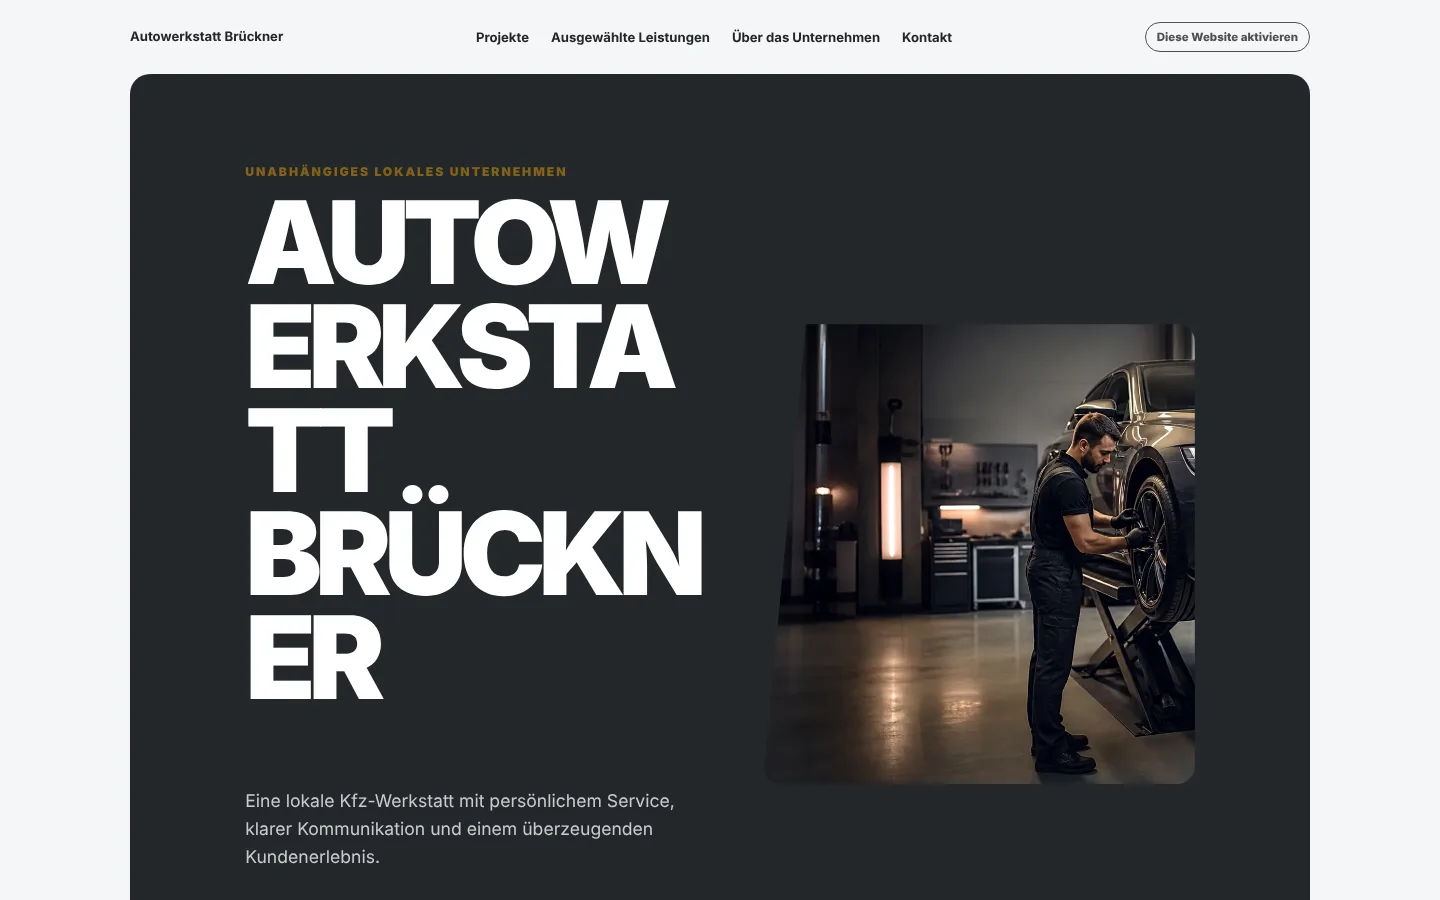
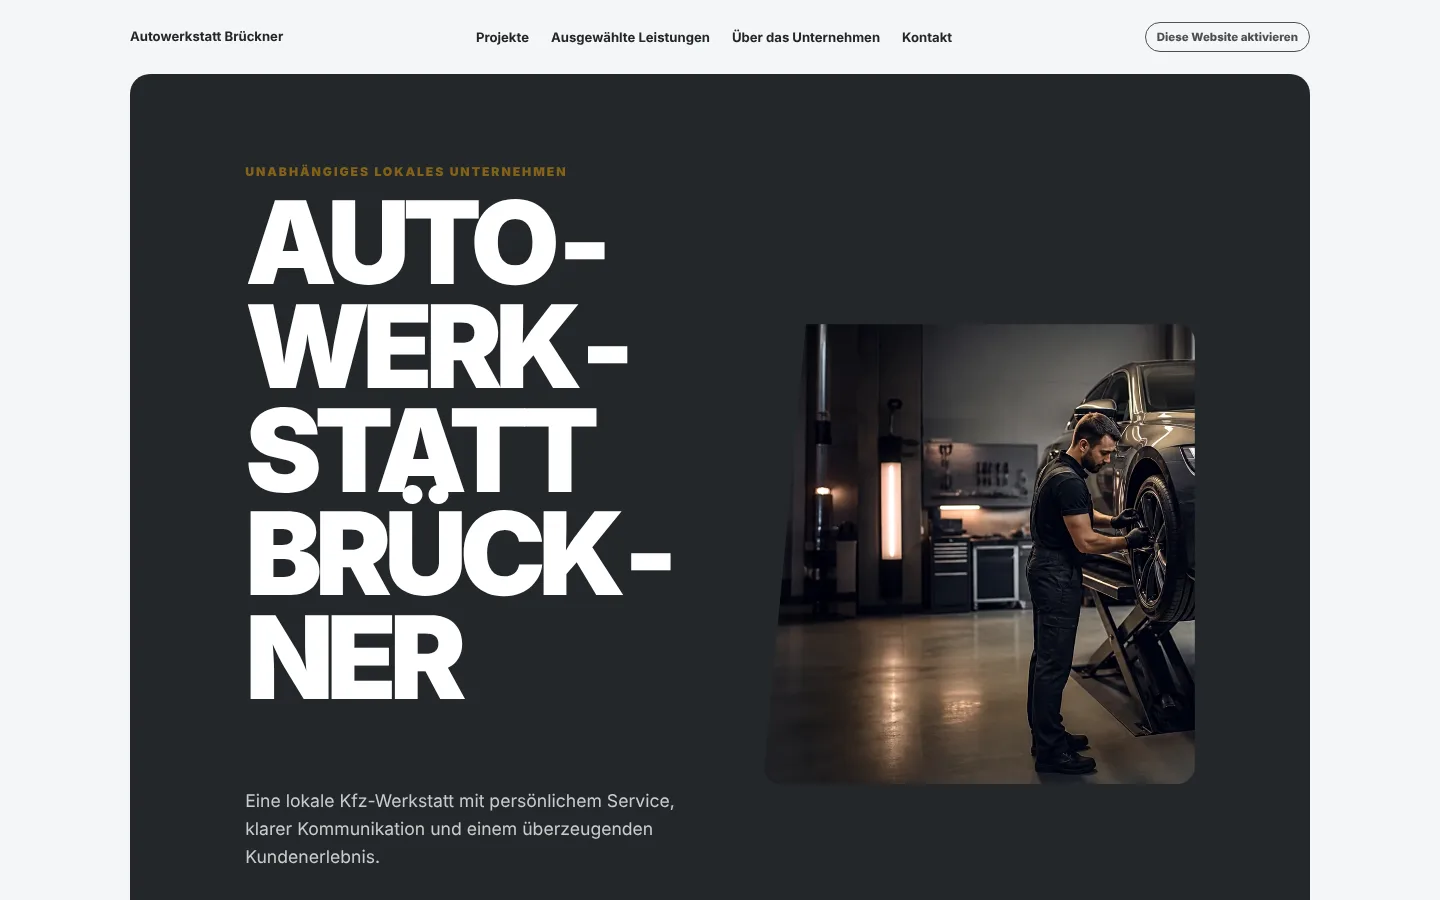
fix(sites): readable hero names, neutral German starter copy, visible CTA on dark palettes
- Hero headline hyphenates long compound names by page language instead of
  breaking at arbitrary letters.
- Starter descriptions in DE/FR/ES/IT no longer depend on the grammatical
  gender of the category label (fixes "Eine lokale Friseursalon").
- Primary call to action falls back to a contrast-safe colour when the
  palette primary nearly matches the page background.
- Screenshots and verification record updated.

Changed region(s): [[0.1562, 0.2178, 0.4688, 0.56], [0.1875, 0.6844, 0.3438, 0.7778], [0.4062, 0.56, 0.5, 0.6844]]

diff --git a/apps/web/components/design-archetypes.tsx b/apps/web/components/design-archetypes.tsx
@@ -28,6 +28,30 @@ type Copy = ReturnType<typeof resolveSiteCopy>;
 
 /** Per-site icon assignment (P5-001): semantic mapping with uniqueness and a
  * neutral fallback family; null when the document does not opt into icons. */
+
+/* The primary call to action must stay visible on every palette: dark
+   palettes can carry a primary that is nearly the page colour. */
+function luminance(hex: string) {
+  const value = /^#([0-9a-f]{6})$/i.exec(hex.trim())?.[1];
+  if (!value) return null;
+  const [r, g, b] = [0, 2, 4].map((offset) => {
+    const channel = parseInt(value.slice(offset, offset + 2), 16) / 255;
+    return channel <= 0.03928 ? channel / 12.92 : ((channel + 0.055) / 1.055) ** 2.4;
+  });
+  return 0.2126 * r + 0.7152 * g + 0.0722 * b;
+}
+function contrast(a: string, b: string) {
+  const la = luminance(a), lb = luminance(b);
+  if (la === null || lb === null) return 21;
+  return (Math.max(la, lb) + 0.05) / (Math.min(la, lb) + 0.05);
+}
+export function ctaColors(theme: SiteDocument["theme"]): Record<string, string> {
+  if (contrast(theme.primary, theme.background) >= 3) return {};
+  const fill = contrast(theme.accent, theme.background) >= 3 ? theme.accent : theme.text;
+  const ink = contrast(fill, "#ffffff") >= contrast(fill, theme.background) ? "#ffffff" : theme.background;
+  return { "--site-cta": fill, "--site-cta-ink": ink };
+}
+
 function serviceIcons(site: SiteDocument, design: SiteDesign): ReturnType<typeof mapServiceIcon>[] | null {
   if (!design.iconStyle) return null;
   const taken = new Set<string>();
@@ -309,6 +333,7 @@ function IndustrialBoldSite({ site, design, privacyHref }: { site: SiteDocument;
     "--site-page": site.theme.background,
     "--site-surface": site.theme.surface,
     "--site-ink": site.theme.text,
+    ...ctaColors(site.theme),
   } as CSSProperties;
   const section = (id: SiteSectionId): ReactNode => {
     switch (id) {
@@ -445,6 +470,7 @@ function EditorialPremiumSite({ site, design, privacyHref }: { site: SiteDocumen
     "--site-page": site.theme.background,
     "--site-surface": site.theme.surface,
     "--site-ink": site.theme.text,
+    ...ctaColors(site.theme),
   } as CSSProperties;
   const testimonials = design.sectionOrder.includes("testimonials") && trustLines(site).length ? (
     <section className="ep-testimonials" id="testimonials">
@@ -614,6 +640,7 @@ function LocalServiceSite({ site, design, privacyHref }: { site: SiteDocument; d
     "--site-page": site.theme.background,
     "--site-surface": site.theme.surface,
     "--site-ink": site.theme.text,
+    ...ctaColors(site.theme),
   } as CSSProperties;
   const section = (id: SiteSectionId): ReactNode => {
     switch (id) {

diff --git a/apps/web/lib/trial-starter-content.ts b/apps/web/lib/trial-starter-content.ts
@@ -105,16 +105,19 @@ const healthDescriptions: Partial<Record<TrialCategory, Record<Exclude<Supported
   },
 };
 
+const capitalize = (value: string) => value.charAt(0).toUpperCase() + value.slice(1);
+
 function localizedCategoryStarter(category: string, locale: Exclude<SupportedLocale, "sq">, templateKey?: string): RawStarterContent {
   const kind = categoryKind(category, templateKey);
   if (!kind) return generic[locale];
   const label = labels[locale][kind];
   const description: Record<Exclude<SupportedLocale, "sq">, string> = {
     en: `A local ${label} focused on thoughtful service, clear communication and a confident customer experience.`,
-    de: `Eine lokale ${label} mit persönlichem Service, klarer Kommunikation und einem überzeugenden Kundenerlebnis.`,
-    fr: `Un ${label} local attentif au service, à une communication claire et à une expérience client rassurante.`,
-    es: `Un ${label} local centrado en un servicio atento, una comunicación clara y una experiencia de cliente segura.`,
-    it: `Un’${label} locale attenta al servizio, alla comunicazione chiara e a un’esperienza cliente sicura.`,
+    // Gender-neutral phrasing: the label's grammatical gender varies by category.
+    de: `${label} vor Ort: persönlicher Service, klare Kommunikation und ein überzeugendes Kundenerlebnis.`,
+    fr: `${capitalize(label)} de proximité : service attentif, communication claire et expérience client rassurante.`,
+    es: `${capitalize(label)} de confianza en su zona: servicio atento, comunicación clara y una experiencia de cliente segura.`,
+    it: `${capitalize(label)} di zona: servizio attento, comunicazione chiara e un’esperienza cliente sicura.`,
   };
   const services: Partial<Record<TrialCategory, Record<Exclude<SupportedLocale, "sq">, string[]>>> = {
     "auto-repair": {

diff --git a/apps/web/components/design-archetypes-cta.test.ts b/apps/web/components/design-archetypes-cta.test.ts
@@ -1,0 +1,18 @@
+import { describe, expect, it } from "vitest";
+import { ctaColors } from "./design-archetypes";
+
+describe("call-to-action colours", () => {
+  it("keeps the primary colour when it stands out from the page", () => {
+    expect(ctaColors({ primary: "#26282c", accent: "#8a6d3b", background: "#f7f7f8", surface: "#ffffff", text: "#26282c" })).toEqual({});
+  });
+
+  it("switches to the accent with readable ink when the primary disappears on a dark page", () => {
+    expect(ctaColors({ primary: "#212327", accent: "#b48d54", background: "#1f2124", surface: "#2a2d31", text: "#f2f2f3" }))
+      .toEqual({ "--site-cta": "#b48d54", "--site-cta-ink": "#1f2124" });
+  });
+
+  it("falls back to the text colour when the accent is also too close to the page", () => {
+    expect(ctaColors({ primary: "#212327", accent: "#2a2d31", background: "#1f2124", surface: "#2a2d31", text: "#f2f2f3" }))
+      .toEqual({ "--site-cta": "#f2f2f3", "--site-cta-ink": "#1f2124" });
+  });
+});

diff --git a/apps/web/app/styles.css b/apps/web/app/styles.css
@@ -2368,8 +2368,8 @@ body[data-owner-theme="light"] .search-result-links a { background: rgba(29,29,3
   margin-top: 14px;
   padding: 13px 19px;
   border-radius: var(--ds-radius-pill);
-  background: var(--site-primary);
-  color: #fff;
+  background: var(--site-cta, var(--site-primary));
+  color: var(--site-cta-ink, #fff);
   font:
     800 var(--ds-type-cta) Inter,
     sans-serif;
@@ -5934,7 +5934,10 @@ body[data-owner-theme="light"] .search-result-links a { background: rgba(29,29,3
 
 /* Hero prominence policy: minimum visual area per promised prominence. */
 .generated-site[data-hero-prominence] h1 {
-  overflow-wrap: anywhere;
+  /* Long compound names (e.g. German) hyphenate at syllables via the page
+     language; break-word only splits a word that still cannot fit. */
+  overflow-wrap: break-word;
+  hyphens: auto;
   text-wrap: balance;
 }
 .generated-site[data-hero-prominence="immersive"] .ib-hero,

diff --git a/EVIDENCE.md b/EVIDENCE.md
@@ -19,7 +19,7 @@ Linux-Container, Node 22, PostgreSQL 16, gegen genau diesen Schnappschuss.
 |---|---|
 | TypeScript (`npm run typecheck`, alle Workspaces) | bestanden |
 | ESLint | bestanden, 0 Fehler, 2 Warnungen |
-| Unit- und Integrationstests (`npm test`, mit Datenbank) | **1.196 bestanden**, 2 übersprungen |
+| Unit- und Integrationstests (`npm test`, mit Datenbank) | **1.199 bestanden**, 2 übersprungen |
 | Durchgesetzte Row-Level Security (`npm run test:rls`, Wegwerf-Datenbank, eingeschränkte Rollen) | **172 bestanden** in 14 Dateien |
 | Upgrade-Erhalt 049 → 052 (`npm run test:rls-upgrade`) | bestanden |
 | Doku-Links (`npm run check:docs`) | bestanden |
@@ -34,7 +34,8 @@ Dieselben Schritte laufen in GitHub Actions (`.github/workflows/ci.yml`) auf `ub
 | Prüfung | Beobachtung |
 |---|---|
 | Durchgang im Browser (Playwright/Chromium, lokaler Produktionsbuild, 27.10.2026) | Drei fiktive Betriebe über den Assistenten angelegt (Haarstudio Elena, Autowerkstatt Brückner, Café Morgenrot): jeweils Website in wenigen Sekunden erzeugt, privater Vorschau-Link geöffnet, Business-Admin per Passwort betreten, Editor geöffnet. Screenshots in `docs/assets`, jedes Bild einzeln angesehen. |
-| Gefundene Anzeigefehler (nicht behoben, im privaten Repository zu klären) | Lange deutsche Firmennamen werden in der Industrie-Vorlage mitten im Wort umgebrochen („AUTOW / ERKSTA / TT“). Deutscher Standardtext „Eine lokale Friseursalon“ ist grammatisch falsch. Business-Admin bleibt Englisch, auch wenn die Website Deutsch ist. Für „Café“ gibt es keine eigene Vorlage; die neutrale Vorlage zeigt keinen Bildbereich und einen kontrastarmen Kontaktknopf. |
+| Gefundene Anzeigefehler (27.10.2026, behoben im zweiten Pull Request) | Lange deutsche Firmennamen wurden in der Hero-Überschrift mitten im Wort umgebrochen („AUTOW / ERKSTA / TT“), jetzt Silbentrennung nach Seitensprache („AUTO- / WERK- / STATT“). Der deutsche Standardtext „Eine lokale Friseursalon“ war grammatisch falsch; die Texte in DE/FR/ES/IT sind jetzt unabhängig vom Genus der Branche. Auf dunklen Paletten war der Kontaktknopf fast unsichtbar; der Knopf wählt jetzt automatisch eine Farbe mit ausreichendem Kontrast (3 neue Tests). Alle drei im Browser nachgeprüft, Screenshots ersetzt. |
+| Bewusst so, kein Fehler | Der Business-Admin folgt der Oberflächensprache des Besuchers (Cookie bzw. Browsersprache, EN oder DE), nicht der Sprache der erzeugten Website. Kleiner Rest: Der Knopf „Mit AI verbessern“ folgt der Website-Sprache und steht deshalb in einem englischen Admin auf Deutsch. Für „Café“ gibt es keine eigene Branchenvorlage; es wird die neutrale Vorlage ohne Bild verwendet. |
 | Schnellstart | Zwei Lücken in `docs/QUICK_START.md` gefunden und ergänzt: Die drei Rollen-URLs sind Pflicht, und `PUBLIC_APP_URL` muss zur Adresse im Browser passen, sonst lehnt der Same-Origin-Schutz den Login ab. |
 
 ## Was nicht geprüft ist

diff --git a/README.md b/README.md
@@ -13,7 +13,7 @@
 | Status | Umfang |
 |---|---|
 | **Umgesetzt und in Produktion** | Self-Service-Demo in drei Schritten, Website-Engine mit Branchenvorlagen und Themes, Business-Admin (Texte, Leistungen und Preise, Fotos und Videos, Öffnungszeiten, Kontakt, Termine), private Vorschau-Links, Impressumspflicht vor Veröffentlichung, Plattform-Admin mit Passwort plus TOTP und festen Rollen, eigene Domains. Die Plattform läuft seit Oktober 2026 auf einem eigenen Server in Frankfurt und hostet dort die ersten eigenen und befreundeten Websites. |
-| **Verifiziert** | 1.368 automatisierte Tests lokal grün (Unit, Integration gegen PostgreSQL 16, durchgesetzte Row-Level Security mit eingeschränkten Rollen), Typecheck, Lint, Produktionsbuild, gitleaks ohne Funde. Details im [Prüfprotokoll](EVIDENCE.md). |
+| **Verifiziert** | 1.371 automatisierte Tests lokal grün (Unit, Integration gegen PostgreSQL 16, durchgesetzte Row-Level Security mit eingeschränkten Rollen), Typecheck, Lint, Produktionsbuild, gitleaks ohne Funde. Details im [Prüfprotokoll](EVIDENCE.md). |
 | **Umgesetzt, hier nicht aktiv** | Stripe-Checkout mit Kulanzzeit und Read-only-Phase, E-Mail über Resend, Google-Places-Suche nach Betrieben, KI-Import einer bestehenden Website und KI-Textverbesserung (OpenAI), Medienspeicher (Vercel Blob oder S3/R2), News-CMS für Informationsseiten. Der Code ist getestet; ohne Schlüssel bleiben diese Funktionen aus. |
 | **Offen** | Kommerzieller Verkauf ist nicht freigegeben: Die Rechtstexte (AGB, Datenschutz, AVV) warten auf anwaltliche Prüfung. Safari/WebKit-Abnahme auf echten Geräten ist unvollständig. Siehe [Projektstand](docs/PROJEKTSTAND.md). |
 
@@ -23,7 +23,7 @@ Alle Bilder stammen aus einem lokalen Produktionsbuild mit erfundenen Betrieben.
 
 | 1. Name und Branche eingeben | 2. Fertige Website (Desktop) |
 |---|---|
-| ![Assistent zum Anlegen einer Website](docs/assets/create-wizard.webp) | ![Generierte Website für den fiktiven Friseursalon Haarstudio Elena](docs/assets/demo-site-salon.webp) |
+| ![Assistent zum Anlegen einer Website](docs/assets/create-wizard.webp) | ![Generierte Website für den fiktiven Friseursalon Haarstudio Mira](docs/assets/demo-site-salon.webp) |
 
 | 3. Selbst bearbeiten | Mobil | Andere Branche |
 |---|---|---|

diff --git a/README.en.md b/README.en.md
@@ -13,7 +13,7 @@
 | Status | Scope |
 |---|---|
 | **Implemented and in production** | Three-step self-service demo, website engine with category templates and themes, business admin (texts, services and prices, photos and videos, opening hours, contact, appointments), private preview links, legal-identity gate before publishing, platform admin with password plus TOTP and fixed roles, custom domains. The platform has run on its own server in Frankfurt since October 2026 and hosts the first own and friendly websites there. |
-| **Verified** | 1,368 automated tests passing locally (unit, integration against PostgreSQL 16, enforced row-level security with restricted roles), typecheck, lint, production build, gitleaks with no findings. Details in the [verification record](EVIDENCE.md). |
+| **Verified** | 1,371 automated tests passing locally (unit, integration against PostgreSQL 16, enforced row-level security with restricted roles), typecheck, lint, production build, gitleaks with no findings. Details in the [verification record](EVIDENCE.md). |
 | **Implemented, not active here** | Stripe checkout with grace and read-only phases, email via Resend, Google Places business discovery, AI import of an existing website and AI text improvement (OpenAI), media storage (Vercel Blob or S3/R2), news CMS for information sites. The code is tested; without keys these features stay off. |
 | **Open** | Commercial sale is not released: the legal texts (terms, privacy, DPA) await professional legal review. Safari/WebKit acceptance on real devices is incomplete. See [project status](docs/PROJEKTSTAND.md). |
 
@@ -23,7 +23,7 @@ All images come from a local production build with fictitious businesses. They a
 
 | 1. Enter name and category | 2. Finished website (desktop) |
 |---|---|
-| ![Website creation wizard](docs/assets/create-wizard.webp) | ![Generated website for the fictitious hair salon Haarstudio Elena](docs/assets/demo-site-salon.webp) |
+| ![Website creation wizard](docs/assets/create-wizard.webp) | ![Generated website for the fictitious hair salon Haarstudio Mira](docs/assets/demo-site-salon.webp) |
 
 | 3. Edit it yourself | Mobile | Another category |
 |---|---|---|
